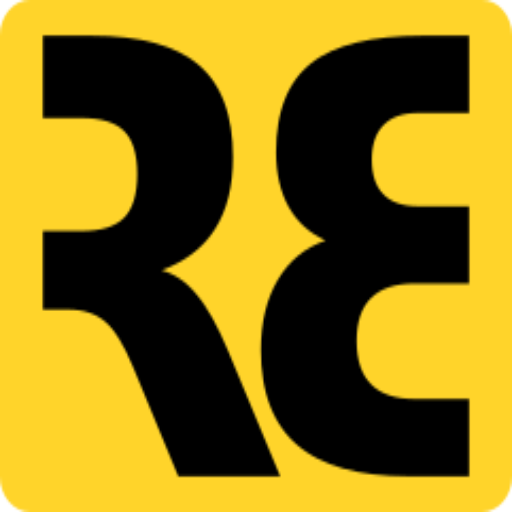
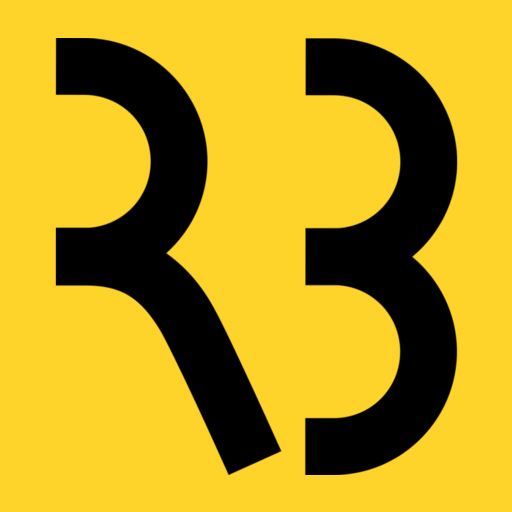
update facicon

diff --git a/nuxt.config.js b/nuxt.config.js
@@ -13,9 +13,14 @@ export default {
       { charset: 'utf-8' },
       { name: 'viewport', content: 'width=device-width, initial-scale=1' },
       { hid: 'description', name: 'description', content: '' },
+      { name:"theme-color", content:"#ffd42a"},
     ],
     link: [
-      { rel: 'icon', type: 'image/x-icon', href: '/favicon.ico' },
+      { rel:"apple-touch-icon" ,sizes:"180x180", href:"/apple-touch-icon.png"},
+      {  rel:"icon", type:"image/png", sizes:"32x32", href:"/favicon-32x32.png" },
+      {  rel:"icon" ,type:"image/png", sizes:"16x16", href:"/favicon-16x16.png" },
+      { rel:"manifest", href:"/site.webmanifest" },
+      {  rel:"mask-icon", href:"/safari-pinned-tab.svg", color:"#5bbad5" },
       {
         rel: 'stylesheet',
         href:
